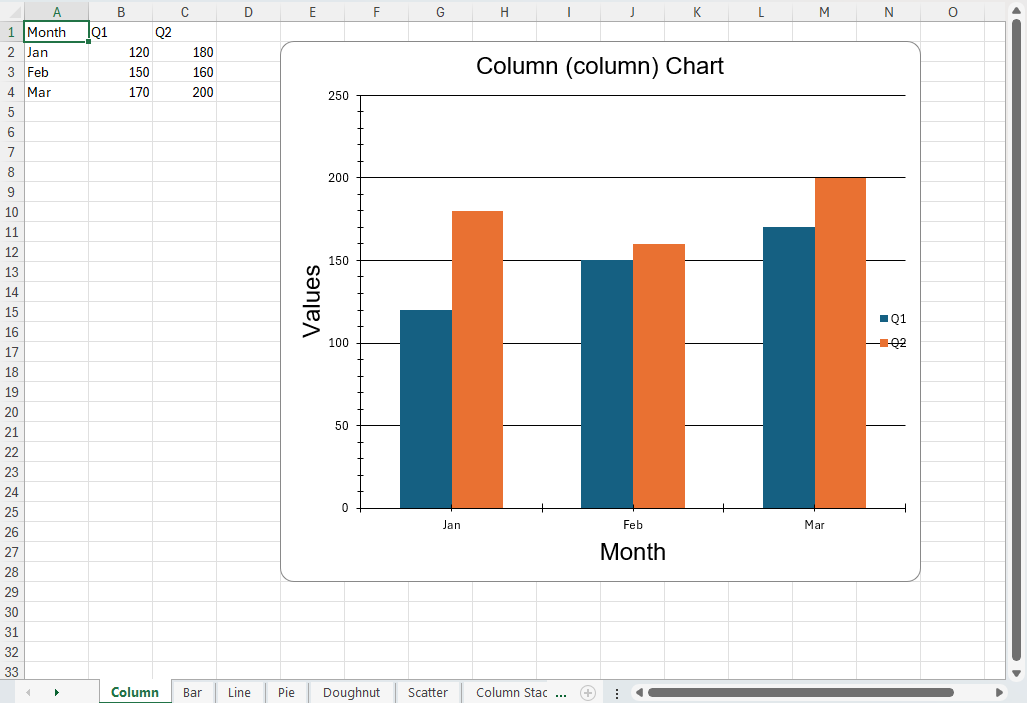
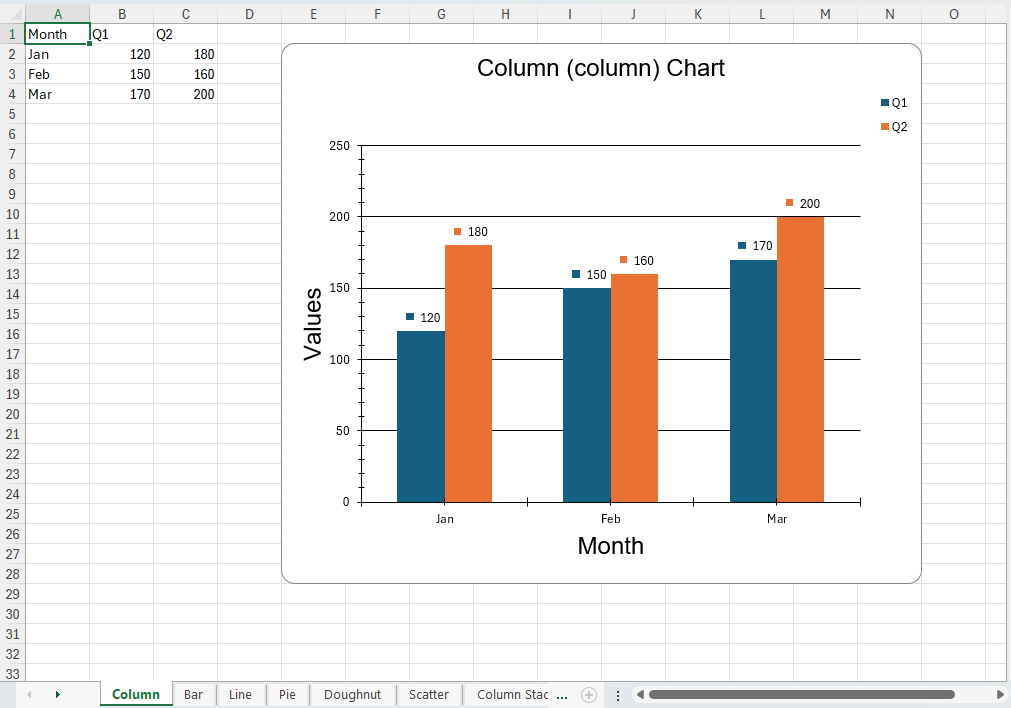
chore: add `dataLabels` interface

diff --git a/packages/excel-builder-vanilla/src/Excel/Drawing/__tests__/Chart.spec.ts b/packages/excel-builder-vanilla/src/Excel/Drawing/__tests__/Chart.spec.ts
@@ -743,4 +743,58 @@ describe('Chart', () => {
     const legendSegment = xml.match(/<c:legend>[\s\S]*?<\/c:legend>/)?.[0];
     expect(legendSegment).toContain('<c:overlay val="1"');
   });
+
+  // -----------------
+  // Data labels
+  // -----------------
+  it('emits dLbls with requested flags (value + percent) and suppresses others', () => {
+    const { xml } = buildChart({
+      type: 'pie',
+      title: 'Pie Labels',
+      dataLabels: { showValue: true, showPercent: true },
+      series: [{ name: 'S', valuesRange: 'S!$B$2:$B$5' }],
+      categoriesRange: 'S!$A$2:$A$5',
+    });
+    expect(xml).toContain('<c:dLbls');
+    expect(xml).toContain('<c:showVal val="1"');
+    expect(xml).toContain('<c:showPercent val="1"');
+    // The other flags should appear with val="0"
+    expect(xml).toContain('<c:showCatName val="0"');
+    expect(xml).toContain('<c:showSerName val="0"');
+  });
+
+  it('emits dLbls with all flags =0 when empty object provided', () => {
+    const { xml } = buildChart({
+      type: 'column',
+      title: 'No Labels',
+      dataLabels: {},
+      series: [{ name: 'S1', valuesRange: 'S!$B$2:$B$4' }],
+      categoriesRange: 'S!$A$2:$A$4',
+    });
+    // We now always emit <c:dLbls> for provided object, but with no child nodes since no keys specified.
+    expect(xml).toContain('<c:dLbls');
+    const seg = xml.match(/<c:dLbls>[\s\S]*?<\/c:dLbls>/) ? xml : xml; // self-closing OK
+    expect(seg).toContain('<c:showVal val="0"');
+    expect(seg).toContain('<c:showCatName val="0"');
+    expect(seg).toContain('<c:showPercent val="0"');
+    expect(seg).toContain('<c:showSerName val="0"');
+  });
+
+  it('emits showSerName when requested and suppresses others explicitly', () => {
+    const { xml } = buildChart({
+      type: 'line',
+      title: 'Series Name Labels',
+      dataLabels: { showSeriesName: true, showValue: false },
+      series: [
+        { name: 'Alpha', valuesRange: 'S!$B$2:$B$4' },
+        { name: 'Beta', valuesRange: 'S!$C$2:$C$4' },
+      ],
+      categoriesRange: 'S!$A$2:$A$4',
+    });
+    const dLblsSegment = xml.match(/<c:dLbls>[\s\S]*?<\/c:dLbls>/)?.[0] || xml; // fallback to whole xml
+    expect(dLblsSegment).toContain('<c:showSerName val="1"');
+    expect(dLblsSegment).toContain('<c:showVal val="0"');
+    expect(dLblsSegment).toContain('<c:showCatName val="0"');
+    expect(dLblsSegment).toContain('<c:showPercent val="0"');
+  });
 });

diff --git a/packages/excel-builder-vanilla/src/Excel/Drawing/Chart.ts b/packages/excel-builder-vanilla/src/Excel/Drawing/Chart.ts
@@ -181,6 +181,20 @@ export class Chart extends Drawing {
       primaryChartNode.appendChild(ser);
     });
 
+    // Data labels (chart-level). Specification places <c:dLbls> inside the chart-type node
+    const dLblsCfg = this.options.dataLabels;
+    if (dLblsCfg) {
+      // Always emit <c:dLbls>; write each known child with explicit 0/1 to prevent Excel defaults.
+      const dLbls = Util.createElement(doc, 'c:dLbls');
+      const valNode = (tag: string, enabled: boolean | undefined) =>
+        dLbls.appendChild(Util.createElement(doc, tag, [['val', enabled === true ? '1' : '0']]));
+      valNode('c:showVal', dLblsCfg.showValue);
+      valNode('c:showCatName', dLblsCfg.showCategory);
+      valNode('c:showPercent', dLblsCfg.showPercent);
+      valNode('c:showSerName', dLblsCfg.showSeriesName);
+      primaryChartNode.appendChild(dLbls);
+    }
+
     // Axis IDs (except pie which has no axes)
     if (type !== 'pie' && type !== 'doughnut') {
       primaryChartNode.appendChild(Util.createElement(doc, 'c:axId', [['val', String(axIdCat)]]));

diff --git a/packages/excel-builder-vanilla-types/dist/index.d.ts b/packages/excel-builder-vanilla-types/dist/index.d.ts
@@ -342,6 +342,17 @@ export interface ChartOptions {
 	series?: ChartSeriesRef[];
 	/** Legend configuration */
 	legend?: LegendOptions;
+	/** Global data label toggles (applies to the whole chart). If any flag true a <c:dLbls> node is emitted. */
+	dataLabels?: {
+		/** Show numerical value */
+		showValue?: boolean;
+		/** Show category text (for non-scatter) */
+		showCategory?: boolean;
+		/** Show percentage (mainly useful for pie/doughnut or percent stacked) */
+		showPercent?: boolean;
+		/** Show series name (useful when multiple series and category/value alone is ambiguous) */
+		showSeriesName?: boolean;
+	};
 }
 /**
  * @module Excel/Util

diff --git a/packages/excel-builder-vanilla/src/interfaces.ts b/packages/excel-builder-vanilla/src/interfaces.ts
@@ -204,4 +204,15 @@ export interface ChartOptions {
   series?: ChartSeriesRef[];
   /** Legend configuration */
   legend?: LegendOptions;
+  /** Global data label toggles (applies to the whole chart). If any flag true a <c:dLbls> node is emitted. */
+  dataLabels?: {
+    /** Show numerical value */
+    showValue?: boolean;
+    /** Show category text (for non-scatter) */
+    showCategory?: boolean;
+    /** Show percentage (mainly useful for pie/doughnut or percent stacked) */
+    showPercent?: boolean;
+    /** Show series name (useful when multiple series and category/value alone is ambiguous) */
+    showSeriesName?: boolean;
+  };
 }

diff --git a/packages/demo/src/examples/example18.ts b/packages/demo/src/examples/example18.ts
@@ -127,6 +127,12 @@ export default class Example18 {
         categoriesRange,
         series: seriesDefs,
         legend: legendConfig,
+        dataLabels:
+          type === 'pie' || type === 'doughnut'
+            ? { showPercent: true }
+            : sheetName === 'Column' || sheetName === 'Bar' || sheetName === 'Line'
+              ? { showValue: true }
+              : undefined,
       });
 
       const anchor = chart.createAnchor('twoCellAnchor', {

diff --git a/docs/inserting-charts.md b/docs/inserting-charts.md
@@ -1,6 +1,6 @@
 ## Inserting charts
 
-Add charts to a workbook: create data, create a chart, add it, position it. That's all—just practical usage.
+Add charts to a workbook: add data, build a chart with cell ranges, position it.
 
 ### Supported types
 `column` (vertical clustered), `bar` (horizontal), `line`, `pie`, `doughnut`, `scatter`
@@ -16,18 +16,17 @@ Add charts to a workbook: create data, create a chart, add it, position it. That
 ### Option summary (ChartOptions)
 | Option | Purpose | Notes |
 |--------|---------|-------|
-| type | `column` | `bar` | `line` | `pie` | `doughnut` | `scatter` | Defaults to `column` |
-| title | Chart title | Omit for none |
-| axis.x.title | X axis label | Ignored for pie |
-| axis.y.title | Y axis label | Ignored for pie |
-| axis.x.showGridLines | Show vertical gridlines | Category axis (non-pie) |
-| axis.y.showGridLines | Show horizontal gridlines | Value axis (non-pie) |
-| axis.y.minimum / axis.y.maximum | Force value axis bounds | Optional (numeric) |
-| stacking | 'stacked' | 'percent' | Stacks series (column/bar/line) |
-| width / height | Size override | Defaults used if omitted |
-| categoriesRange | Category labels range | Skip for scatter when using `scatterXRange` |
-| series | Array of `{ name, valuesRange, color? }` | 2+ series => legend; `color` optional (opaque ARGB e.g. FF3366CC) |
-| series[].scatterXRange | Scatter X values range | Only for scatter |
+| type | Chart type | One of: column, bar, line, pie, doughnut, scatter (default: column) |
+| title | Chart title | Omit for no title |
+| axis.x.title / axis.y.title | Axis labels | Ignored for pie/doughnut |
+| axis.x.showGridLines / axis.y.showGridLines | Gridlines toggles | x = vertical lines, y = horizontal lines |
+| axis.y.minimum / axis.y.maximum | Value axis bounds | Numbers (e.g. 0, 1) |
+| stacking | Stack series | 'stacked' or 'percent' (column / bar / line only) |
+| width / height | Size (EMUs) | Usually omit (auto size) |
+| categoriesRange | Category labels range | Not used by scatter (use scatterXRange instead) |
+| series | Data series | Array of { name, valuesRange, color? } |
+| series[].scatterXRange | X values (scatter) | Only for scatter charts |
+| dataLabels | Point label toggles | { showValue?, showCategory?, showPercent?, showSeriesName? } |
 
 
 ### Quick start (multi‑series column chart)
@@ -36,18 +35,17 @@ const wb = createWorkbook();
 const ws = wb.createWorksheet({ name: 'Sales' });
 wb.addWorksheet(ws);
 
-ws.addRow(['Month', 'Q1', 'Q2']);
-ws.addRow(['Jan', 10, 15]);
-ws.addRow(['Feb', 20, 25]);
-ws.addRow(['Mar', 30, 35]);
+ws.setData([
+  ['Month', 'Q1', 'Q2'],
+  ['Jan', 10, 15],
+  ['Feb', 20, 25],
+  ['Mar', 30, 35],
+]);
 
 const chart = new Chart({
   type: 'column',
   title: 'Quarterly Sales',
-  axis: {
-    x: { title: 'Month' },
-    y: { title: 'Revenue', minimum: 0, showGridLines: true },
-  },
+  axis: { x: { title: 'Month' }, y: { title: 'Revenue', minimum: 0, showGridLines: true } },
   series: [
     { name: 'Q1', valuesRange: 'Sales!$B$2:$B$4' },
     { name: 'Q2', valuesRange: 'Sales!$C$2:$C$4' },
@@ -55,10 +53,9 @@ const chart = new Chart({
   categoriesRange: 'Sales!$A$2:$A$4',
 });
 wb.addChart(chart);
-
 chart.createAnchor('twoCellAnchor', { from: { x: 4, y: 1 }, to: { x: 10, y: 16 } });
-ws.addDrawings(drawings.addDrawing(chart)); // or add drawings first then the chart
 
+// (Workbook export depends on your surrounding setup)
 await wb.generateFiles();
 ```
 
@@ -77,11 +74,14 @@ new Chart({
 ```
 
 ## Positioning
-Use a two-cell anchor:
+Position a chart with a two‑cell anchor (start & end grid cells):
 ```ts
-chart.createAnchor('twoCellAnchor', { from: { x: 4, y: 1 }, to: { x: 10, y: 16 } });
+chart.createAnchor('twoCellAnchor', { 
+    from: { x: 4, y: 1 }, 
+    to: { x: 10, y: 16 } 
+});
 ```
-Values are column/row indices (0-based).
+Indices are zero‑based (0 = first column / row).
 
 ### Legend
 Auto behavior (no `legend` option provided): show legend only when there are 2 or more series.
@@ -100,8 +100,54 @@ Rules:
 - If `show` is undefined, auto mode (2+ series) applies.
 - `overlay` emits `<c:overlay val="1">` when true; otherwise `0`.
 
-Notes:
-- Pie / Doughnut: adding multiple series produces multiple pies/rings; legend lists series names.
+Note: Pie / Doughnut with multiple series produces multiple pies/rings; legend lists series names.
+
+### Data Labels
+Provide high-level toggles for what text appears on each point.
+
+API flags:
+```ts
+dataLabels: {
+  showValue?: boolean;       // numeric value (Y value or slice value)
+  showCategory?: boolean;    // category text (Month, Region, etc.)
+  showPercent?: boolean;     // percentage (pie/doughnut, or percent-stacked series)
+  showSeriesName?: boolean;  // series name (useful with multiple series where value alone is ambiguous)
+}
+```
+
+Behavior:
+- Pick the parts you want (value, percent, category, series name). Omitted = hidden.
+- Omit `dataLabels` completely for none.
+- Hover tooltips are unchanged (Excel shows full details on hover).
+
+Examples:
+1. Value-only on a column chart:
+```ts
+dataLabels: { showValue: true }
+```
+2. Percent-only on a pie (concise slice labels):
+```ts
+dataLabels: { showPercent: true }
+```
+3. Value + percent on a doughnut:
+```ts
+dataLabels: { showValue: true, showPercent: true }
+```
+4. Series name only (multi-line chart where legend is hidden):
+```ts
+dataLabels: { showSeriesName: true }
+```
+
+Full example (pie with percent only):
+```ts
+new Chart({
+  type: 'pie',
+  title: 'Share',
+  dataLabels: { showPercent: true },
+  series: [{ name: '2025', valuesRange: 'Regions!$B$2:$B$6' }],
+  categoriesRange: 'Regions!$A$2:$A$6',
+});
+```
 
 Example (legend will show 2 entries and be placed top-right):
 ```ts
@@ -156,15 +202,14 @@ new Chart({
 ```
 
 Notes:
-- Stacking ignored for: doughnut, pie & scatter
-- Percent stacking displays proportional contribution (0–100%).
-- Overlap is automatically set for stacked column/bar to align segments.
+- Stacking applies only to column, bar, line.
+- Percent stacking rescales each category to 100%.
 
 ---
 
 ## Chart Type Examples
 
-Below are minimal, focused examples for each supported chart type. They assume you have already created a workbook `wb`, added a worksheet `ws` with suitable data, and added that worksheet to the workbook. Only the chart-specific parts are shown.
+Below are small, focused snippets for each type. They assume you already created a workbook (`wb`) and worksheet (`ws`) with matching ranges.
 
 #### Column
 ```ts
@@ -173,8 +218,8 @@ const col = new Chart({
   title: 'Monthly Revenue',
   axis: { x: { title: 'Month' }, y: { title: 'Amount', minimum: 0, showGridLines: true } },
   series: [
-  { name: 'Q1', valuesRange: 'Sales!$B$2:$B$13', color: 'FF3366CC' }, // ARGB
-  { name: 'Q2', valuesRange: 'Sales!$C$2:$C$13', color: 'FFFF9933' }, // ARGB
+  { name: 'Q1', valuesRange: 'Sales!$B$2:$B$13', color: 'FF3366CC' },
+  { name: 'Q2', valuesRange: 'Sales!$C$2:$C$13', color: 'FFFF9933' },
   ],
   categoriesRange: 'Sales!$A$2:$A$13',
 });
@@ -203,6 +248,7 @@ const line = new Chart({
   axis: { x: { title: 'Month' }, y: { title: 'Value', showGridLines: true } },
   series: [{ name: 'Q1', valuesRange: 'Sales!$B$2:$B$13', color: 'FF99CC00' }],
   categoriesRange: 'Sales!$A$2:$A$13',
+  dataLabels: { showValue: true },
 });
 wb.addChart(line);
 ```
@@ -212,6 +258,7 @@ wb.addChart(line);
 const pie = new Chart({
   type: 'pie',
   title: 'Share by Region',
+  dataLabels: { showValue: true, showPercent: true },
   series: [{ name: '2025', valuesRange: 'Regions!$B$2:$B$6' }],
   categoriesRange: 'Regions!$A$2:$A$6',
 });
@@ -239,8 +286,9 @@ const scatter = new Chart({
     name: 'Run A',
   scatterXRange: 'Runs!$A$2:$A$21',
     valuesRange: 'Runs!$B$2:$B$21',
-  color: 'FFFF0000', // ARGB stroke color (opaque red)
+    color: 'FFFF0000', // ARGB stroke color (opaque red)
   }],
+  dataLabels: { showValue: true }, // shows Y values at each point
 });
 wb.addChart(scatter);
 ```
@@ -343,18 +391,27 @@ wb.addChart(barPct);
 ---
 End of chart type examples.
 
-### Series Color Notes
-See also the general color section in `fonts-and-colors.md`.
+### Series Colors
+Format: opaque ARGB `FFRRGGBB` (examples: `FFFF9933` = orange, `FF3366CC` = blue).
 
-Format:
-- Opaque ARGB only: `FFRRGGBB` (e.g. `FF3366CC`). Use `FF` for fully opaque colors.
-
-Behavior:
-- Column / Bar: sets a solid fill color.
-- Line / Scatter: sets the stroke line color (markers, if/when added later, would share that color).
-- Pie / Doughnut: series color is ignored; Excel auto-assigns slice colors (one series per pie/ring).
+Effects:
+- Column / Bar: fill color
+- Line / Scatter: stroke color
+- Pie / Doughnut: ignored (Excel auto colors slices)
 
 Notes:
-- Alpha channel (when other than `FF`) is currently ignored; colors render fully opaque.
-- Invalid hex strings are silently ignored (no styling emitted).
-- Theme-based colors (e.g. `{ theme: 2 }`) are not yet supported for charts—pass an ARGB/RGB string.
+- Alpha (anything other than `FF`) is ignored; colors are always rendered fully opaque.
+- Invalid strings are ignored silently.
+- Theme colors are not supported; supply an ARGB hex.
+
+### Cell Range Cheat Sheet
+| Want | Pattern | Example |
+|------|---------|---------|
+| 3 category labels | Sheet!$A$2:$A$4 | `Sales!$A$2:$A$4` |
+| Series values | Sheet!$B$2:$B$4 | `Sales!$B$2:$B$4` |
+| Scatter X values | Sheet!$A$2:$A$21 | `Runs!$A$2:$A$21` |
+| Scatter Y values | Sheet!$B$2:$B$21 | `Runs!$B$2:$B$21` |
+
+Tips:
+- Always use absolute refs (`$A$1`) so range stays stable.
+- Category and each series range must have the same number of rows.
